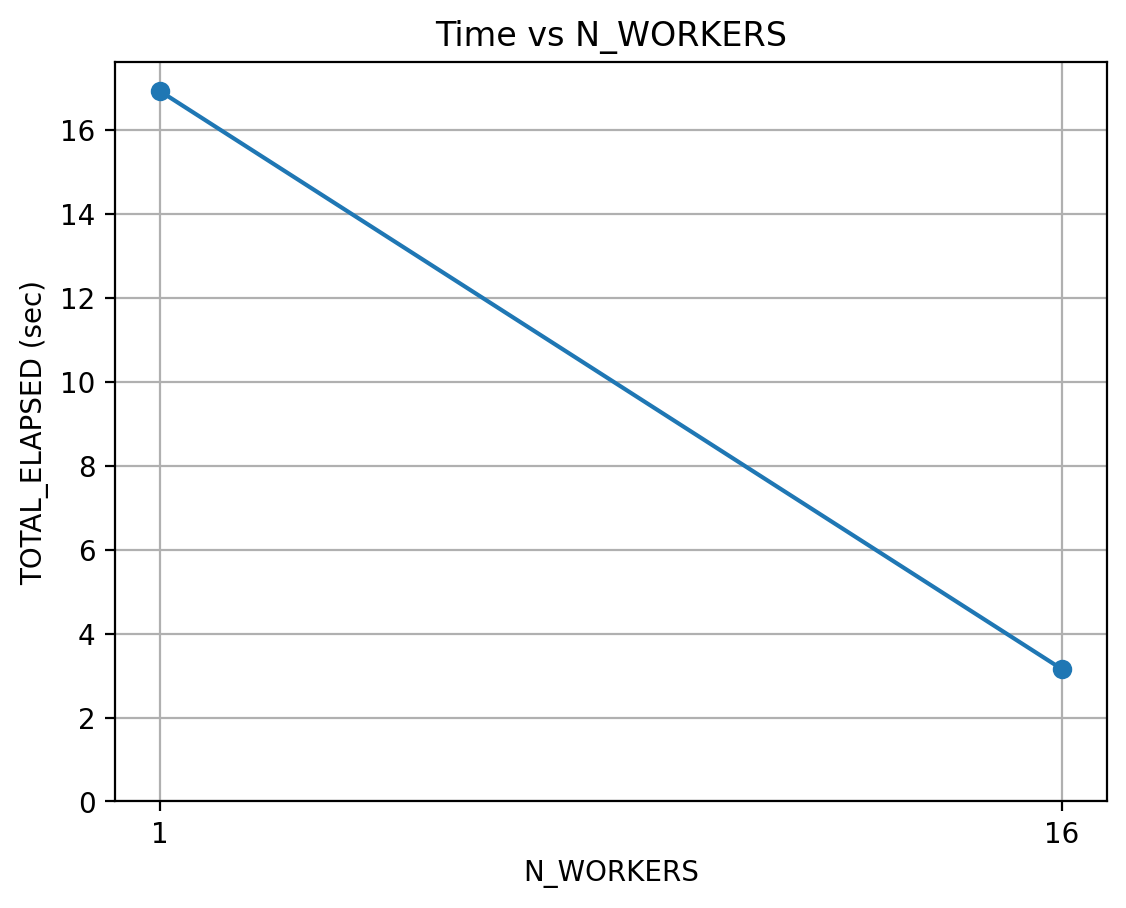
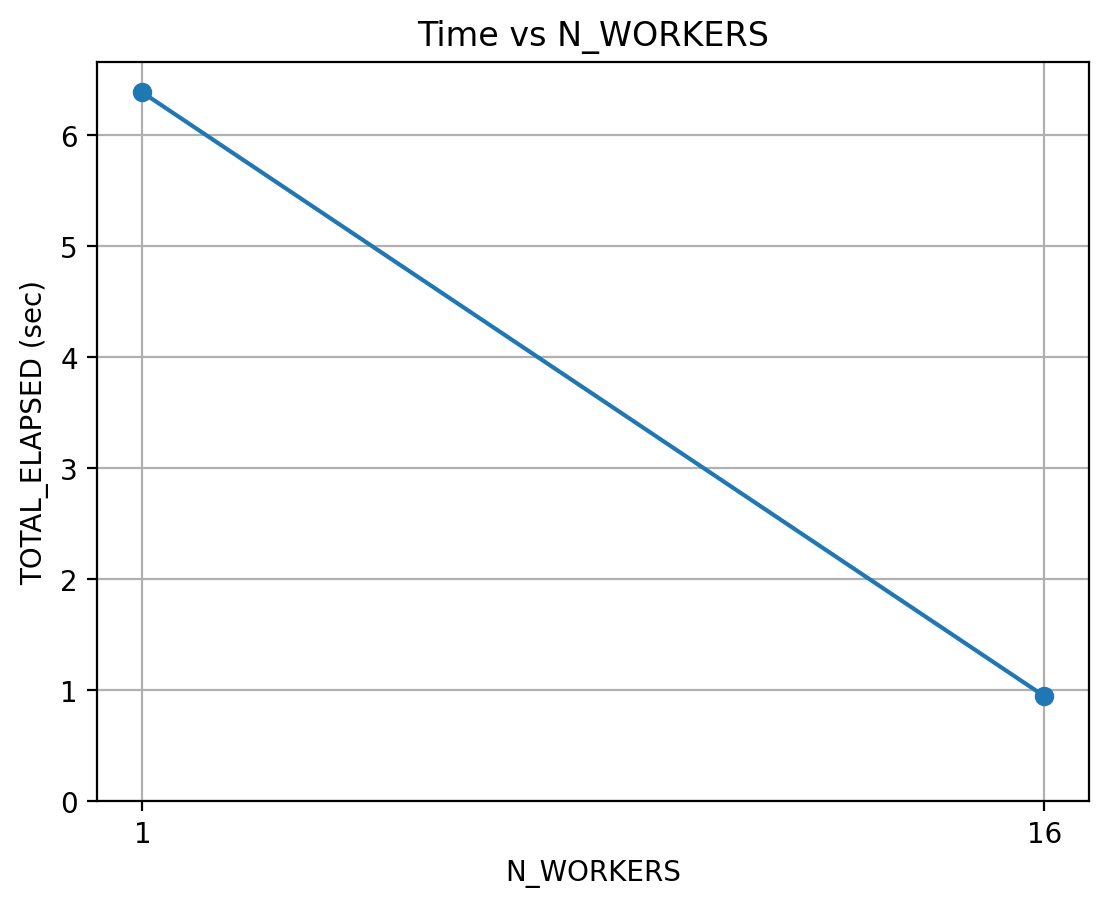
gfg

diff --git a/java/src/main/java/dl4j_models/Dl4jModelFactory.java b/java/src/main/java/dl4j_models/Dl4jModelFactory.java
@@ -85,11 +85,11 @@ public class Dl4jModelFactory {
 			model = createHarModel(workerId);
 
 		} else if (DATASET.contains("pendigits")) {
-			// model = createDenseModel_1(workerId);	// forward pass cost: CPU = 10ms / GPU = 3ms
 			// model = createPendigitsModelTanh(workerId);
 			// model = createPendigitsModelSmaller(workerId);
 			// model = createPendigitsModelSmaller_2(workerId);
-			model = createDenseModel_4(workerId);
+			model = createDenseModel_1(workerId);	// forward pass cost: CPU = 10ms / GPU = 3ms
+			// model = createDenseModel_4(workerId);
 
 		} else if ("winequality".equals(DATASET)) {
 			System.out.println("NEURAL_OUTPUT: " + NEURAL_OUTPUT);

diff --git a/docs/PSO_tasks_doc.md b/docs/PSO_tasks_doc.md
@@ -52,15 +52,16 @@
 
 	66) We want following diagrams:
 
+		- 0) x: gBest / pBest				| y: accuracy
 		- 1) x: Dimensionality 				| y: accuracy
 		- 2) x: Different Topologies 		| y: accuracy
 
 		- 3) x: N_WORKERS  					| y: accuracy / time / number of bytes
-		- 4) x: N_WORKERS  					| y: accuracy / time / number of bytes (with Filter)
-		- 5) x: SEVERITY_OF_FILTER 			| y: accuracy / time / number of bytes
+		- 4) x: SEVERITY_OF_FILTER 			| y: accuracy / time / number of bytes
 			If not:
 			=> x: FILTER_ENABLED 	| y: accuracy / time / number of bytes
 			=> x: threshold T		| y: accuracy / number of bytes
+		- 5) x: N_WORKERS  					| y: accuracy / time / number of bytes (with Filter)
 
 			=> Repeat 3, 4, 5 for all 4 Datasets (also for the one from mnist to fmnist) (ειναι 3 απλα datasets και fmnist <--> mnist)
 
@@ -130,6 +131,8 @@
 			- 2) Winequality (Highly seperable / Easy dataset, High Samples, Low Number of Classes) => How do we scale with higher amount of samples
 			- 3) Pendigits (Highly seperable / Easy dataset, High Samples, High Number of Classes) => How do we scale with higher amount of number of classes
 			- 4) MNIST (More complicated / Image dataset, High Samples, High Number of Classes) => How do we scale with more complex dataset ?
+
+	## =======================================================================================
 
 	65) non differentiable Functions, with requirements:
 		- 1) Continious, but non differentiable

diff --git a/docs/questions.md b/docs/questions.md
@@ -31,7 +31,7 @@
 			=> Αρκει να αλλαξω το dataset σε NON-IDD ?
 			=> Αρκει οτι το συστημα εχει μονο το capability να το κανει αυτο και οτι απλως δεν το εξεταζουμε / δεν το τρεχουμε ετσι για διευκολυνση ?
 
-		- Για τα διαγραμματα να τα τρεξω στο pendigits ? Η καπου πιο δυσκολα ? 
+		- Για τα διαγραμματα δεν μετραω πλεον system time, αλλα time απο το πρωτο record (αγνοω overhead) => θεωρω training begins. Το overhead ειναι πολυ μεγαλο (7 seconds)  και μου χαλαει την ποιοτητα των γραφηματων, ειδικα στα μικρα datasets
 
 	- Για συνταξη της Διπλωματικης + Next Steps: ===========================================
 
